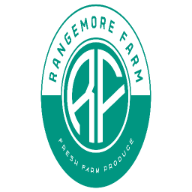
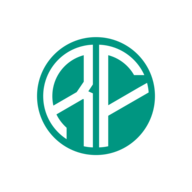
Fix(fav_icon)
Fix_icon

Changed region(s): [[0.1875, 0.0, 0.8125, 1.0]]

diff --git a/index.html b/index.html
@@ -5,11 +5,15 @@
     <meta charset="UTF-8">
     <meta http-equiv="X-UA-Compatible" content="IE=edge">
     <meta name="viewport" content="width=device-width, initial-scale=1.0">
+
     <link rel="apple-touch-icon" sizes="180x180" href="/apple-touch-icon.png">
     <link rel="icon" type="image/png" sizes="32x32" href="/favicon-32x32.png">
     <link rel="icon" type="image/png" sizes="16x16" href="/favicon-16x16.png">
     <link rel="manifest" href="/site.webmanifest">
-    <link rel="shortcut icon" href="assets/images/favicon.png" type="image/png">
+    <link rel="mask-icon" href="/safari-pinned-tab.svg" color="#5bbad5">
+    <meta name="msapplication-TileColor" content="#da532c">
+    <meta name="theme-color" content="#ffffff">
+
     <link rel="stylesheet" href="assets/css/animate.css">
     <link rel="stylesheet" href="assets/css/tiny-slider.css">
     <link rel="stylesheet" href="assets/fonts/lineicons/font-css/LineIcons.css">
@@ -119,29 +123,32 @@
                         <div class="border-t border-1 border-teal-800 flex-grow"></div>
                     </div>
 
-                    <div class="flex items-center mx-16 mb-8 mt-8 gap-2">
-                        <div class="w-full md:w-2/4 order-first md:order-none">
-                          <img class="rounded h-82" src="img/potatoes-being-transported.jpg" alt="Your image alt text">
+                    <div class="grid md:grid-cols-2 gap-4 mx-16 mb-8 mt-8 items-center  ">
+                        <div class="shrink-0 w-full">
+                            <img class="rounded h-82" src="img/potatoes-being-transported.jpg"
+                                alt="Your image alt text">
                         </div>
-                        <div class="w-2/4 flex flex-col items-center">
+                        <div class="shrink-0 w-full flex flex-col items-center">
 
-                          <h2 class="text-center">Farming for Health And Nourishing the Earth </h2>
-                          <p class="mt-10 text-center">We know that food grown on healthy land with healthy farming is healthy food. We grow organic food that's good for you and the environment.</p>
+                            <h2 class="text-center">Farming for Health And Nourishing the Earth </h2>
+                            <p class="mt-10 text-center">We know that food grown on healthy land with healthy farming is
+                                healthy food. We grow organic food that's good for you and the environment.</p>
                         </div>
                     </div>
 
-                    <div class="flex items-center mx-16 mb-8 mt-8 gap-2">
-                        <div class="w-full md:w-2/4 flex flex-col items-center">
-
-                          <h2 class="text-center">A Family Tradition</h2>
-                          <p class="mt-10 text-center">At Rangemore Farms, farming is more than a job - it's a way of life that's been passed down through generations. From our family to yours, we're honored to grow the freshest, most delicious food that nourishes and delights. Thank you for joining us in carrying on this cherished tradition.</p>
+                    <div class="grid md:grid-cols-2 gap-4 mx-16 mb-8 mt-8 items-center  ">
+                        <div class="shrink-0 w-full flex flex-col items-center">
+                            <h2 class="text-center">A Family Tradition</h2>
+                            <p class="mt-10 text-center">Our family grew up on the land of Rangemore Farms. We are proud
+                                to grow the food that feeds your families. Thank you for supporting this tradition.
+                                How can you change this theme and spicy it a bit </p>
                         </div>
-                        <div class="w-full md:w-2/4 order-first md:order-none">
-                            <img class="rounded h-82" src="img/tractor-old.jpg" alt="Your image alt text">
-                          </div>
+
+                        <div class="shrink-0 w-full">
+                            <img class="rounded h-82" src="img/tractor-old.jpg" alt="Old Tractor">
+                        </div>
                     </div>
                 </div>
-
             </section>
 
             <section class="products_are pt-120" id="products">

diff --git a/style.css b/style.css
@@ -685,6 +685,14 @@ video {
   order: -9999;
 }
 
+.col-span-2 {
+  grid-column: span 2 / span 2;
+}
+
+.row-span-2 {
+  grid-row: span 2 / span 2;
+}
+
 .float-right {
   float: right;
 }
@@ -1575,6 +1583,18 @@ video {
   grid-auto-flow: column dense;
 }
 
+.grid-cols-3 {
+  grid-template-columns: repeat(3, minmax(0, 1fr));
+}
+
+.grid-cols-2 {
+  grid-template-columns: repeat(2, minmax(0, 1fr));
+}
+
+.grid-rows-2 {
+  grid-template-rows: repeat(2, minmax(0, 1fr));
+}
+
 .flex-row {
   flex-direction: row;
 }
@@ -1761,6 +1781,10 @@ video {
 
 .gap-2 {
   gap: 0.5rem;
+}
+
+.gap-4 {
+  gap: 1rem;
 }
 
 .space-x-2 > :not([hidden]) ~ :not([hidden]) {
@@ -3523,6 +3547,10 @@ video {
     order: 0;
   }
 
+  .md\:row-span-1 {
+    grid-row: span 1 / span 1;
+  }
+
   .md\:mb-0 {
     margin-bottom: 0px;
   }
@@ -3575,8 +3603,16 @@ video {
     width: 50%;
   }
 
+  .md\:grid-cols-2 {
+    grid-template-columns: repeat(2, minmax(0, 1fr));
+  }
+
   .md\:flex-row {
     flex-direction: row;
+  }
+
+  .md\:items-center {
+    align-items: center;
   }
 
   .md\:justify-start {
